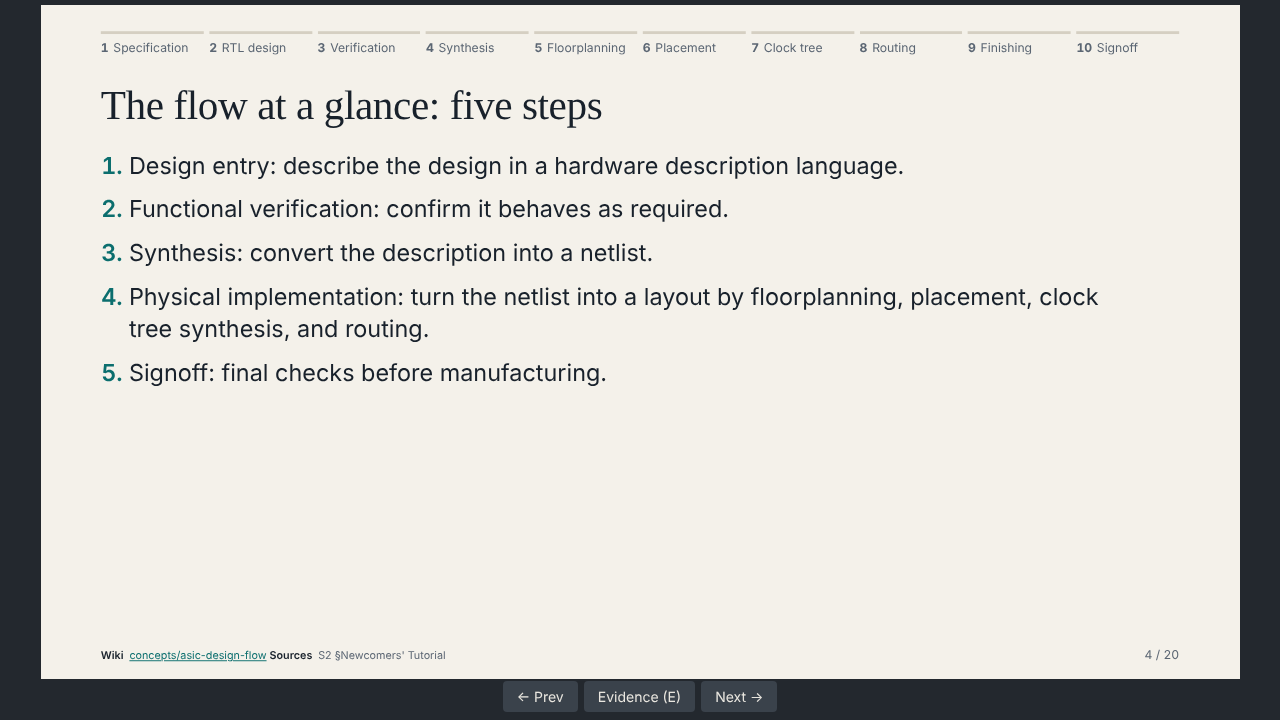
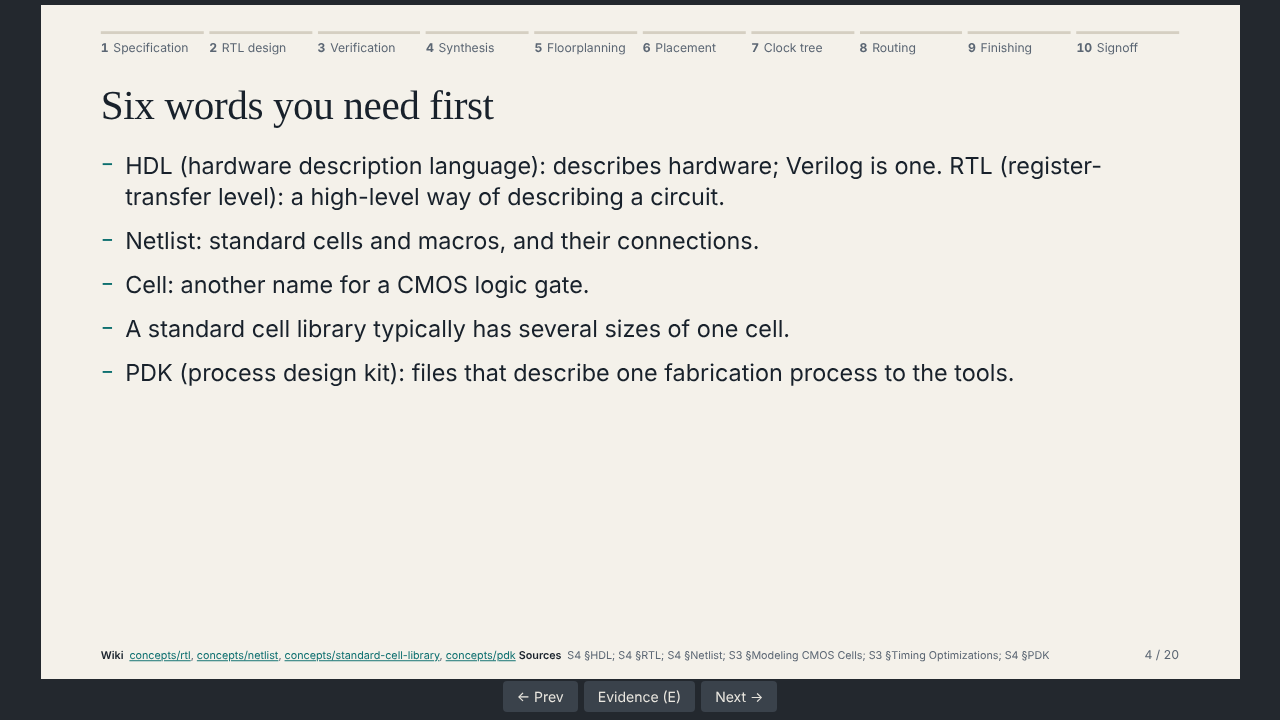
Slides run 01: owner acceptance, slides 4 and 5 swapped, review round 4
The owner accepted the deck at node 8 with one change (vocabulary before
overview), which sent the run back to nodes 4 and 5. A fourth review round
on the changed slides found nothing. Re-rendered; all checks pass.

Claude-Session: https://claude.ai/code/session_012czL5AwAiuzoBELXDxeEVM

Changed region(s): [[0.0625, 0.2139, 0.875, 0.55], [0.0625, 0.1222, 0.4688, 0.1833], [0.125, 0.8861, 0.8125, 0.9167]]

diff --git a/docs/slides/index.html b/docs/slides/index.html
@@ -60,8 +60,8 @@ kbd { font:inherit; border:1px solid var(--soft); border-radius:3px; padding:0 6
 <section class="slide k-title" id="s1" data-n="1"><div class="body"><h2>From RTL to GDSII: how a digital chip gets made</h2><p class="lead">A ten-stage tour for students who know logic gates and flip-flops but have never seen a chip design flow.</p><p class="byline">Built only from the pages of an LLM Wiki. Press <kbd>E</kbd> on any slide to see the wiki sentences behind it.</p></div><span class="num">1 / 20</span></section>
 <section class="slide k-agenda" id="s2" data-n="2"><ol class="strip" aria-label="The ten stages"><li class=""><b>1</b>Specification</li><li class=""><b>2</b>RTL design</li><li class=""><b>3</b>Verification</li><li class=""><b>4</b>Synthesis</li><li class=""><b>5</b>Floorplanning</li><li class=""><b>6</b>Placement</li><li class=""><b>7</b>Clock tree</li><li class=""><b>8</b>Routing</li><li class=""><b>9</b>Finishing</li><li class=""><b>10</b>Signoff</li></ol><div class="body"><h2>What you will be able to explain afterwards</h2><p class="lead">After this deck you can:</p><ul class="points"><li>Name the stages a design passes through, in order.</li><li>Say, for each stage, what goes in, what comes out, and what is checked.</li><li>Explain setup and hold violations, and the four signoff checks.</li></ul></div><span class="num">2 / 20</span></section>
 <section class="slide k-content" id="s3" data-n="3"><ol class="strip" aria-label="The ten stages"><li class=""><b>1</b>Specification</li><li class=""><b>2</b>RTL design</li><li class=""><b>3</b>Verification</li><li class=""><b>4</b>Synthesis</li><li class=""><b>5</b>Floorplanning</li><li class=""><b>6</b>Placement</li><li class=""><b>7</b>Clock tree</li><li class=""><b>8</b>Routing</li><li class=""><b>9</b>Finishing</li><li class=""><b>10</b>Signoff</li></ol><div class="body"><h2>What is an ASIC, and what is a design flow?</h2><ul class="points"><li>An ASIC is silicon manufactured to carry out one specific function.</li><li>The design flow: the steps from an idea to the data used for fabrication.</li><li>Each step is supported by electronic design automation (EDA) tools.</li><li>The work can last months; a proven flow keeps it on schedule.</li><li>From synthesis to the final layout file, it can run automatically.</li></ul></div><p class="sources"><b>Wiki</b> <a href="https://github.com/RogerH0711/ic-design-flow-wiki/blob/main/wiki/concepts/asic-design-flow.md">concepts/asic-design-flow</a> <b>Sources</b> S4 §ASIC; S2 §Newcomers&#x27; Tutorial; S1 §Running The Automated RTL-to-GDS Flow</p><span class="num">3 / 20</span></section><aside class="evidence" id="e3" hidden><h3>Wiki sentences behind slide 3</h3><ul><li><b>A1</b> <i>concepts/asic-design-flow.md</i><br>An ASIC, an application-specific integrated circuit, is silicon manufactured to carry out a specific function. [S4 §ASIC]</li><li><b>A2</b> <i>concepts/asic-design-flow.md</i><br>The ASIC design flow is the series of steps that takes a chip from an idea to the data used for fabrication. Each step is supported by electronic design automation (EDA) tools. [S2 §Newcomers' Tutorial]</li><li><b>A3</b> <i>concepts/asic-design-flow.md</i><br>Designing an ASIC takes considerable expertise and can last several months; following a proven flow keeps the work on schedule. [S2 §Newcomers' Tutorial]</li><li><b>A4</b> <i>concepts/asic-design-flow.md</i><br>The part from synthesis to the final layout file can be run automatically, without human intervention. [S1 §Running The Automated RTL-to-GDS Flow]</li></ul></aside>
-<section class="slide k-content" id="s4" data-n="4"><ol class="strip" aria-label="The ten stages"><li class=""><b>1</b>Specification</li><li class=""><b>2</b>RTL design</li><li class=""><b>3</b>Verification</li><li class=""><b>4</b>Synthesis</li><li class=""><b>5</b>Floorplanning</li><li class=""><b>6</b>Placement</li><li class=""><b>7</b>Clock tree</li><li class=""><b>8</b>Routing</li><li class=""><b>9</b>Finishing</li><li class=""><b>10</b>Signoff</li></ol><div class="body"><h2>The flow at a glance: five steps</h2><ol class="points"><li>Design entry: describe the design in a hardware description language.</li><li>Functional verification: confirm it behaves as required.</li><li>Synthesis: convert the description into a netlist.</li><li>Physical implementation: turn the netlist into a layout by floorplanning, placement, clock tree synthesis, and routing.</li><li>Signoff: final checks before manufacturing.</li></ol></div><p class="sources"><b>Wiki</b> <a href="https://github.com/RogerH0711/ic-design-flow-wiki/blob/main/wiki/concepts/asic-design-flow.md">concepts/asic-design-flow</a> <b>Sources</b> S2 §Newcomers&#x27; Tutorial</p><span class="num">4 / 20</span></section><aside class="evidence" id="e4" hidden><h3>Wiki sentences behind slide 4</h3><ul><li><b>F1</b> <i>concepts/asic-design-flow.md</i><br>Design entry: the design is described in a hardware description language, usually at the register transfer level. See RTL Design. [S2 §Newcomers' Tutorial]</li><li><b>F2</b> <i>concepts/asic-design-flow.md</i><br>Functional verification: simulation and formal verification confirm that the design behaves as required. [S2 §Newcomers' Tutorial]</li><li><b>F3</b> <i>concepts/asic-design-flow.md</i><br>Synthesis: the description is converted into a netlist. [S2 §Newcomers' Tutorial]</li><li><b>F4</b> <i>concepts/asic-design-flow.md</i><br>Physical implementation: the netlist is turned into a layout through floorplanning, placement, clock tree synthesis, and routing. [S2 §Newcomers' Tutorial]</li><li><b>F5</b> <i>concepts/asic-design-flow.md</i><br>Signoff: final checks before the layout is sent for manufacturing. [S2 §Newcomers' Tutorial]</li></ul></aside>
-<section class="slide k-content" id="s5" data-n="5"><ol class="strip" aria-label="The ten stages"><li class=""><b>1</b>Specification</li><li class=""><b>2</b>RTL design</li><li class=""><b>3</b>Verification</li><li class=""><b>4</b>Synthesis</li><li class=""><b>5</b>Floorplanning</li><li class=""><b>6</b>Placement</li><li class=""><b>7</b>Clock tree</li><li class=""><b>8</b>Routing</li><li class=""><b>9</b>Finishing</li><li class=""><b>10</b>Signoff</li></ol><div class="body"><h2>Six words you need first</h2><ul class="points"><li>HDL (hardware description language): describes hardware; Verilog is one. RTL (register-transfer level): a high-level way of describing a circuit.</li><li>Netlist: standard cells and macros, and their connections.</li><li>Cell: another name for a CMOS logic gate.</li><li>A standard cell library typically has several sizes of one cell.</li><li>PDK (process design kit): files that describe one fabrication process to the tools.</li></ul></div><p class="sources"><b>Wiki</b> <a href="https://github.com/RogerH0711/ic-design-flow-wiki/blob/main/wiki/concepts/rtl.md">concepts/rtl</a>, <a href="https://github.com/RogerH0711/ic-design-flow-wiki/blob/main/wiki/concepts/netlist.md">concepts/netlist</a>, <a href="https://github.com/RogerH0711/ic-design-flow-wiki/blob/main/wiki/concepts/standard-cell-library.md">concepts/standard-cell-library</a>, <a href="https://github.com/RogerH0711/ic-design-flow-wiki/blob/main/wiki/concepts/pdk.md">concepts/pdk</a> <b>Sources</b> S4 §HDL; S4 §RTL; S4 §Netlist; S3 §Modeling CMOS Cells; S3 §Timing Optimizations; S4 §PDK</p><span class="num">5 / 20</span></section><aside class="evidence" id="e5" hidden><h3>Wiki sentences behind slide 5</h3><ul><li><b>V2</b> <i>concepts/rtl.md</i><br>A hardware description language (HDL) is a computer language for describing the structure or the behavior of a hardware chip. Verilog and VHDL are the best known. [S4 §HDL]</li><li><b>V1</b> <i>concepts/rtl.md</i><br>The register-transfer level (RTL) is a way of describing a circuit at a high level in a hardware description language. Lower-level descriptions, and eventually the real wiring, are derived from it. [S4 §RTL]</li><li><b>V3</b> <i>concepts/netlist.md</i><br>A netlist is a representation of a circuit as pre-hardened elements, that is, standard cells and macros, and the connections between them. [S4 §Netlist]</li><li><b>V4</b> <i>concepts/standard-cell-library.md</i><br>A cell is another name for a CMOS logic gate. [S3 §Modeling CMOS Cells]</li><li><b>V5</b> <i>concepts/standard-cell-library.md</i><br>A standard cell library typically contains several sizes of the same cell. [S3 §Timing Optimizations]</li><li><b>V6</b> <i>concepts/pdk.md</i><br>A process design kit (PDK) describes one fabrication process to the design tools. It is a set of files, and the tools used to design a chip rely on it as their model of that process. [S4 §PDK]</li></ul></aside>
+<section class="slide k-content" id="s4" data-n="4"><ol class="strip" aria-label="The ten stages"><li class=""><b>1</b>Specification</li><li class=""><b>2</b>RTL design</li><li class=""><b>3</b>Verification</li><li class=""><b>4</b>Synthesis</li><li class=""><b>5</b>Floorplanning</li><li class=""><b>6</b>Placement</li><li class=""><b>7</b>Clock tree</li><li class=""><b>8</b>Routing</li><li class=""><b>9</b>Finishing</li><li class=""><b>10</b>Signoff</li></ol><div class="body"><h2>Six words you need first</h2><ul class="points"><li>HDL (hardware description language): describes hardware; Verilog is one. RTL (register-transfer level): a high-level way of describing a circuit.</li><li>Netlist: standard cells and macros, and their connections.</li><li>Cell: another name for a CMOS logic gate.</li><li>A standard cell library typically has several sizes of one cell.</li><li>PDK (process design kit): files that describe one fabrication process to the tools.</li></ul></div><p class="sources"><b>Wiki</b> <a href="https://github.com/RogerH0711/ic-design-flow-wiki/blob/main/wiki/concepts/rtl.md">concepts/rtl</a>, <a href="https://github.com/RogerH0711/ic-design-flow-wiki/blob/main/wiki/concepts/netlist.md">concepts/netlist</a>, <a href="https://github.com/RogerH0711/ic-design-flow-wiki/blob/main/wiki/concepts/standard-cell-library.md">concepts/standard-cell-library</a>, <a href="https://github.com/RogerH0711/ic-design-flow-wiki/blob/main/wiki/concepts/pdk.md">concepts/pdk</a> <b>Sources</b> S4 §HDL; S4 §RTL; S4 §Netlist; S3 §Modeling CMOS Cells; S3 §Timing Optimizations; S4 §PDK</p><span class="num">4 / 20</span></section><aside class="evidence" id="e4" hidden><h3>Wiki sentences behind slide 4</h3><ul><li><b>V2</b> <i>concepts/rtl.md</i><br>A hardware description language (HDL) is a computer language for describing the structure or the behavior of a hardware chip. Verilog and VHDL are the best known. [S4 §HDL]</li><li><b>V1</b> <i>concepts/rtl.md</i><br>The register-transfer level (RTL) is a way of describing a circuit at a high level in a hardware description language. Lower-level descriptions, and eventually the real wiring, are derived from it. [S4 §RTL]</li><li><b>V3</b> <i>concepts/netlist.md</i><br>A netlist is a representation of a circuit as pre-hardened elements, that is, standard cells and macros, and the connections between them. [S4 §Netlist]</li><li><b>V4</b> <i>concepts/standard-cell-library.md</i><br>A cell is another name for a CMOS logic gate. [S3 §Modeling CMOS Cells]</li><li><b>V5</b> <i>concepts/standard-cell-library.md</i><br>A standard cell library typically contains several sizes of the same cell. [S3 §Timing Optimizations]</li><li><b>V6</b> <i>concepts/pdk.md</i><br>A process design kit (PDK) describes one fabrication process to the design tools. It is a set of files, and the tools used to design a chip rely on it as their model of that process. [S4 §PDK]</li></ul></aside>
+<section class="slide k-content" id="s5" data-n="5"><ol class="strip" aria-label="The ten stages"><li class=""><b>1</b>Specification</li><li class=""><b>2</b>RTL design</li><li class=""><b>3</b>Verification</li><li class=""><b>4</b>Synthesis</li><li class=""><b>5</b>Floorplanning</li><li class=""><b>6</b>Placement</li><li class=""><b>7</b>Clock tree</li><li class=""><b>8</b>Routing</li><li class=""><b>9</b>Finishing</li><li class=""><b>10</b>Signoff</li></ol><div class="body"><h2>The flow at a glance: five steps</h2><ol class="points"><li>Design entry: describe the design in a hardware description language.</li><li>Functional verification: confirm it behaves as required.</li><li>Synthesis: convert the description into a netlist.</li><li>Physical implementation: turn the netlist into a layout by floorplanning, placement, clock tree synthesis, and routing.</li><li>Signoff: final checks before manufacturing.</li></ol></div><p class="sources"><b>Wiki</b> <a href="https://github.com/RogerH0711/ic-design-flow-wiki/blob/main/wiki/concepts/asic-design-flow.md">concepts/asic-design-flow</a> <b>Sources</b> S2 §Newcomers&#x27; Tutorial</p><span class="num">5 / 20</span></section><aside class="evidence" id="e5" hidden><h3>Wiki sentences behind slide 5</h3><ul><li><b>F1</b> <i>concepts/asic-design-flow.md</i><br>Design entry: the design is described in a hardware description language, usually at the register transfer level. See RTL Design. [S2 §Newcomers' Tutorial]</li><li><b>F2</b> <i>concepts/asic-design-flow.md</i><br>Functional verification: simulation and formal verification confirm that the design behaves as required. [S2 §Newcomers' Tutorial]</li><li><b>F3</b> <i>concepts/asic-design-flow.md</i><br>Synthesis: the description is converted into a netlist. [S2 §Newcomers' Tutorial]</li><li><b>F4</b> <i>concepts/asic-design-flow.md</i><br>Physical implementation: the netlist is turned into a layout through floorplanning, placement, clock tree synthesis, and routing. [S2 §Newcomers' Tutorial]</li><li><b>F5</b> <i>concepts/asic-design-flow.md</i><br>Signoff: final checks before the layout is sent for manufacturing. [S2 §Newcomers' Tutorial]</li></ul></aside>
 <section class="slide k-content" id="s6" data-n="6"><ol class="strip" aria-label="The ten stages"><li class="on"><b>1</b>Specification</li><li class=""><b>2</b>RTL design</li><li class=""><b>3</b>Verification</li><li class=""><b>4</b>Synthesis</li><li class=""><b>5</b>Floorplanning</li><li class=""><b>6</b>Placement</li><li class=""><b>7</b>Clock tree</li><li class=""><b>8</b>Routing</li><li class=""><b>9</b>Finishing</li><li class=""><b>10</b>Signoff</li></ol><div class="body"><h2>Stage 1: Specification</h2><p class="lead">One project's process (OpenTitan): the first of three broad stages.</p><ul class="points"><li>A concept is written up as a brief proposal and goes through a request for comment.</li><li>After review, the full detailed specification is completed.</li><li>It is published to the wider team and refined from their comments.</li><li><span class="tag">Checked by</span>up to three reviews, one a potential security review.</li></ul></div><p class="sources"><b>Wiki</b> <a href="https://github.com/RogerH0711/ic-design-flow-wiki/blob/main/wiki/stages/specification.md">stages/specification</a> <b>Sources</b> S8 §Concept and RFC; S8 §Detailed Specification; S8 §Specification Publication</p><span class="num">6 / 20</span></section><aside class="evidence" id="e6" hidden><h3>Wiki sentences behind slide 6</h3><ul><li><b>SP2</b> <i>stages/specification.md</i><br>The concept is written up as a brief proposal with the basic features and goes through a request-for-comment process. [S8 §Concept and RFC]</li><li><b>SP3</b> <i>stages/specification.md</i><br>After the feature set and high-level description have been reviewed, the full detailed specification is completed. [S8 §Detailed Specification]</li><li><b>SP4</b> <i>stages/specification.md</i><br>The specification is published to the wider team, and the authors answer comments and questions and keep refining it. [S8 §Specification Publication]</li><li><b>SP5</b> <i>stages/specification.md</i><br>Three reviews are mentioned: an initial review of the feature set and high-level description, a potential security review, and a further detailed review of the full specification by other project members. [S8 §Detailed Specification]</li></ul></aside>
 <section class="slide k-content" id="s7" data-n="7"><ol class="strip" aria-label="The ten stages"><li class=""><b>1</b>Specification</li><li class="on"><b>2</b>RTL design</li><li class=""><b>3</b>Verification</li><li class=""><b>4</b>Synthesis</li><li class=""><b>5</b>Floorplanning</li><li class=""><b>6</b>Placement</li><li class=""><b>7</b>Clock tree</li><li class=""><b>8</b>Routing</li><li class=""><b>9</b>Finishing</li><li class=""><b>10</b>Signoff</li></ol><div class="body"><h2>Stage 2: RTL design</h2><ul class="points"><li>The design is written in an HDL such as Verilog, normally at RTL.</li><li>Only a subset of Verilog can be synthesized.</li><li>Clocked logic uses non-blocking assignments; purely combinational logic uses blocking ones.</li><li>Flip-flops are used in place of latches unless a latch is absolutely necessary.</li><li><span class="tag">Risk</span>simulation and synthesis disagreeing.</li></ul></div><p class="sources"><b>Wiki</b> <a href="https://github.com/RogerH0711/ic-design-flow-wiki/blob/main/wiki/stages/rtl-design.md">stages/rtl-design</a> <b>Sources</b> S2 §Newcomers&#x27; Tutorial; S5 §Features of synthesizable Verilog; S9 §Blocking and Non-blocking Assignments; S9 §Sequential Logic (Latches); S9 §Combinational Logic; S9 §Don&#x27;t Cares (`X`&#x27;s)</p><span class="num">7 / 20</span></section><aside class="evidence" id="e7" hidden><h3>Wiki sentences behind slide 7</h3><ul><li><b>R1</b> <i>stages/rtl-design.md</i><br>The design is written down in a hardware description language such as Verilog. For digital designs this is normally done at the register transfer level (RTL). [S2 §Newcomers' Tutorial]</li><li><b>R2</b> <i>stages/rtl-design.md</i><br>Only a subset of Verilog can be synthesized; it is defined in its own IEEE standard. [S5 §Features of synthesizable Verilog]</li><li><b>R3</b> <i>stages/rtl-design.md</i><br>Clocked logic uses non-blocking assignments and purely combinational logic uses blocking assignments. [S9 §Blocking and Non-blocking Assignments]</li><li><b>R4</b> <i>stages/rtl-design.md</i><br>Flip-flops are used in place of latches unless a latch is absolutely necessary. [S9 §Sequential Logic (Latches)]</li><li><b>R6</b> <i>stages/rtl-design.md</i><br>Simulation and synthesis disagreeing. Assigning <code>X</code> to mark don't-care conditions can cause such mismatches, and so can a latch inferred inside a function. [S9 §Don't Cares (<code>X</code>'s)] [S9 §Combinational Logic]</li></ul></aside>
 <section class="slide k-content" id="s8" data-n="8"><ol class="strip" aria-label="The ten stages"><li class=""><b>1</b>Specification</li><li class=""><b>2</b>RTL design</li><li class="on"><b>3</b>Verification</li><li class=""><b>4</b>Synthesis</li><li class=""><b>5</b>Floorplanning</li><li class=""><b>6</b>Placement</li><li class=""><b>7</b>Clock tree</li><li class=""><b>8</b>Routing</li><li class=""><b>9</b>Finishing</li><li class=""><b>10</b>Signoff</li></ol><div class="body"><h2>Stage 3: Functional verification</h2><ul class="points"><li><span class="tag">Goal</span>the design under test (DUT) behaves as its requirements say.</li><li>Simulation and formal verification are combined.</li><li>Both the RTL and, later, the gate-level netlist are verified.</li><li>Testing starts with a basic smoke test; stress tests exercise several features at once. All simulations run regularly as a regression.</li><li>In OpenTitan, done: every checklist item of every verification stage is ticked.</li></ul></div><p class="sources"><b>Wiki</b> <a href="https://github.com/RogerH0711/ic-design-flow-wiki/blob/main/wiki/stages/functional-verification.md">stages/functional-verification</a> <b>Sources</b> S2 §Newcomers&#x27; Tutorial; S10 §Design Verification Methodology within OpenTitan; S10 §Basic Smoke Test; S10 §Stress Tests; S10 §Nightly; S10 §Defining Verification Complete: Stages and Checklists</p><span class="num">8 / 20</span></section><aside class="evidence" id="e8" hidden><h3>Wiki sentences behind slide 8</h3><ul><li><b>FV1</b> <i>stages/functional-verification.md</i><br>Functional verification makes sure that the design behaves as its requirements say it should. [S2 §Newcomers' Tutorial]</li><li><b>FV8</b> <i>stages/functional-verification.md</i><br>The design being verified is called the design under test, or DUT. [S10 §Design Verification Methodology within OpenTitan]</li><li><b>FV2</b> <i>stages/functional-verification.md</i><br>Two techniques are combined: simulation of the hardware description, and formal verification. [S2 §Newcomers' Tutorial]</li><li><b>FV3</b> <i>stages/functional-verification.md</i><br>The RTL, and later the gate-level netlist: the tutorial calls it essential to verify both. [S2 §Newcomers' Tutorial]</li><li><b>FV4</b> <i>stages/functional-verification.md</i><br>Testing grows in steps. First a basic smoke test brings the design out of reset and exercises a major data path. [S10 §Basic Smoke Test]</li><li><b>FV5</b> <i>stages/functional-verification.md</i><br>Stress tests exercise several interfaces or features at once and are well suited to finding bugs and closing coverage. [S10 §Stress Tests]</li><li><b>FV6</b> <i>stages/functional-verification.md</i><br>All simulations are run regularly as a regression. [S10 §Nightly]</li><li><b>FV7</b> <i>stages/functional-verification.md</i><br>The effort is split into verification stages, each with a checklist of tasks; only when every item in every stage's checklist is ticked does the project call verification complete. [S10 §Defining Verification Complete: Stages and Checklists]</li></ul></aside>

diff --git a/scripts/render_slides.py b/scripts/render_slides.py
@@ -67,7 +67,7 @@ def main():
             )
             strip = f'<ol class="strip" aria-label="The ten stages">{chips}</ol>'
         lead = f'<p class="lead">{esc(s["lead"])}</p>' if s.get("lead") else ""
-        tag = "ol" if kind in ("quiz",) or n == 4 else "ul"
+        tag = "ol" if kind == "quiz" or s["title"].startswith("The flow at a glance") else "ul"
         items = "".join(f"<li>{bullet_html(b['text'])}</li>" for b in s["bullets"])
         body = f"<{tag} class=\"points\">{items}</{tag}>" if items else ""
         sources = evidence = ""

diff --git a/slides/run-01/06-review-round4.md b/slides/run-01/06-review-round4.md
@@ -1,0 +1,45 @@
+# Faithfulness review of the slide draft (round 4, narrow)
+
+Reviewer: independent sub-agent, 2026-11-14
+Scope: slides 4, 5 and 15 only; files read: 05-slides.json, 03-evidence.json, 04-outline.json
+Bullets and leads checked: 15 (5 per slide; all three leads are empty)   Findings: 0
+
+## Findings
+
+| # | Slide | Bullet (first words) | Verdict | Evidence | Send back to |
+|---|-------|----------------------|---------|----------|--------------|
+
+No findings. All 15 bullets are supported by the cards they list.
+
+Borderline wording, judged OK and not counted as findings:
+
+- Slide 15, "Checked by: zero violations, and an antenna check: a long wire
+  can collect charge ...": AN1 says a long *metal* wire *attached to a
+  transistor gate* collects charge that can damage *the gate's thin oxide*.
+  The bullet shortens this to "a long wire ... damage a transistor gate".
+  Nothing is added or strengthened; the wire-to-gate attachment is only
+  implied. RT4's "zero violations" is about a successful detailed routing
+  run, which the slide context (routing) carries.
+- Slide 5, "Design entry: ...": F1's "usually at the register transfer
+  level" is omitted. This is a dropped detail, not a dropped condition; the
+  remaining statement is still what the card says.
+- Slide 4, "HDL ...: describes hardware; Verilog is one": V2 says a language
+  for describing the structure or behavior of a hardware chip, and names
+  Verilog and VHDL. Supported.
+
+## Teaching notes
+
+Question for this round: with slide 4 now before slide 5, does slide 5 use a
+term that slides 1-4 have not introduced?
+
+- TEACHING (minor), slide 5, bullet 4: "layout" is used without having been
+  introduced. Its only earlier appearance is in passing on slide 3 ("the
+  final layout file"), with no explanation. Slide 4's six words do not
+  include it.
+- Not a problem: "hardware description language" and "netlist" are now
+  defined on slide 4 before slide 5 uses them, so the swap fixed the
+  ordering it was meant to fix. "Functional verification", "synthesis" and
+  "signoff" are explained inline in their own bullets. "Floorplanning,
+  placement, clock tree synthesis, routing" are named without explanation,
+  which is acceptable on an overview slide whose outline purpose is to
+  "give the map before the details".

diff --git a/slides/run-01/06-review-summary.md b/slides/run-01/06-review-summary.md
@@ -1,6 +1,6 @@
 # Node 6 summary: faithfulness review of the draft
 
-Three rounds, each by a fresh sub-agent that saw only the draft, the evidence
+Four rounds, each by a fresh sub-agent that saw only the draft, the evidence
 cards and the outline.
 
 | Round | Scope | Checked | Findings | Sent back to |
@@ -8,6 +8,7 @@ cards and the outline.
 | 1 (`06-review.md`) | all 20 slides | 96 | 9 | node 5 for eight; node 3 for one (no card recorded the gaps) |
 | 2 (`06-review-round2.md`) | the 13 changed slides | 68 | 4 | node 5 |
 | 3 (`06-review-round3.md`) | the 5 changed slides | 25 | 1 | node 5 |
+| 4 (`06-review-round4.md`) | slides 4, 5, 15 after the owner's decisions | 15 | 0 | none |
 
 ## What happened after each round
 
@@ -23,8 +24,9 @@ cards and the outline.
   quiz question reworded so that it does not presuppose the converse of its
   card. Abbreviations HDL, RTL and PDK spelled out on slide 5.
 - Round 3. One label ("Common problem" became "Problem"). The fix is the
-  reviewer's own suggested wording, so no fourth round was run. This is the
-  one open point the owner may want to overrule.
+  reviewer's own suggested wording, so no fourth round was run at the time.
+- Round 4. Run at the owner's request after slides 4 and 5 were swapped: no
+  finding. The review loop is closed.
 
 ## Left for the owner at node 8
 

diff --git a/slides/run-01/08-acceptance.md b/slides/run-01/08-acceptance.md
@@ -1,8 +1,15 @@
 # Node 8: owner acceptance of the rendered deck
 
-Status: **waiting for the owner** (rendered 2026-11-14).
+Status: **accepted with changes** by the owner on 2026-11-14.
 
-Deck: `docs/slides/index.html`. Screenshots of every slide at 1280x720:
-`slides/run-01/screenshots/`.
+The owner looked at the rendered deck and decided:
 
-Open points handed to the owner are listed in `06-review-summary.md`.
+1. Swap slides 4 and 5, so that the vocabulary comes before the overview.
+   This sent the run back to node 4 (outline) and node 5 (draft).
+2. Slide 19 may recap five steps and three gaps, not ten stages and four
+   gaps as the outline first said. The outline text was updated.
+3. Run one more review round on the changed slides. Round 4 found nothing.
+
+After these changes the outline, draft and render checks passed again and
+the deck was re-rendered. Deck: `docs/slides/index.html`. Screenshots of
+every slide at 1280x720: `slides/run-01/screenshots/`.

diff --git a/slides/run-01/run-log.md b/slides/run-01/run-log.md
@@ -75,3 +75,12 @@ Node 5 failed its check three times in a row after review round 1 (5, 4, then 1 
 
 ## 2026-11-14 18:52 | render | PASS | 20 slides rendered, overflow on []
 
+
+## 2026-11-14 20:22 | outline | PASS | 20 slides, 104 of 104 cards used
+
+
+## 2026-11-14 20:22 | draft | PASS | 20 slides
+
+
+## 2026-11-14 23:59 | render | PASS | 20 slides rendered, overflow on []
+
